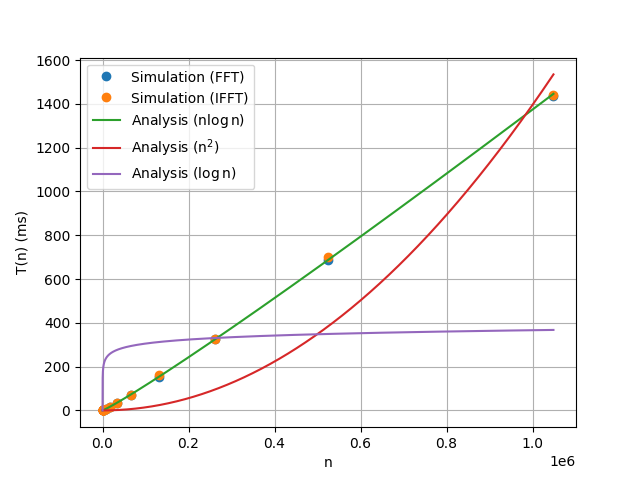
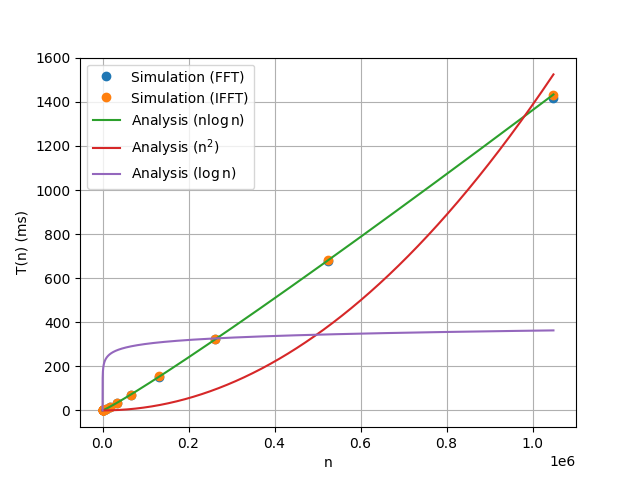
Add codes

diff --git a/filter/codes/6_7.c b/filter/codes/6_7.c
@@ -45,44 +45,118 @@ complex *convolve(complex *h, complex *x, int n) {
 	return a;
 }
 
-int main() { 
+complex *dft(complex *x, int n) { 
+    complex *X = (complex *)calloc(n, sizeof(complex));
+    for (int i = 0; i < n; i++) { 
+        for (int j = 0; j < n; j++) { 
+            X[i] += x[j]*cexp(-I*2*M_PI*i*j/n);
+        }
+    }
+    return X;
+}
+
+complex *idft(complex *x, int n) { 
+    complex *X = (complex *)calloc(n, sizeof(complex));
+    for (int i = 0; i < n; i++) { 
+        for (int j = 0; j < n; j++) { 
+            X[i] += x[j]*cexp(I*2*M_PI*i*j/n);
+        }
+        X[i] /= n;
+    }
+    return X;
+}
+
+complex **dftmtx(int n) { 
+    complex **mtx = (complex **)calloc(n, sizeof(complex *));
+    for (int i = 0; i < n; i++) mtx[i] = (complex *)calloc(n, sizeof(complex));
+    for (int i = 0; i < n; i++) { 
+        for (int j = 0; j < n; j++) { 
+            mtx[i][j] = cexp(I*2*M_PI*i*j/n);
+        }
+    }
+    return mtx;
+}
+
+complex **invmtx(int n) { 
+    complex **mtx = (complex **)calloc(n, sizeof(complex *));
+    for (int i = 0; i < n; i++) mtx[i] = (complex *)calloc(n, sizeof(complex));
+    for (int i = 0; i < n; i++) { 
+        for (int j = 0; j < n; j++) { 
+            mtx[i][j] = cexp(-I*2*M_PI*j*i/n)/(double)n;
+        }
+    }
+    return mtx;
+}
+
+int main(int argc, char *argv[]) { 
 	FILE *f1 = fopen("fft.txt", "w");
 	FILE *f2 = fopen("ifft.txt", "w");
 	FILE *f3 = fopen("conv.txt", "w");
-	for (int j = 0; j <= 20; j++) {
-		srand(time(0));
-		int n = 1 << j;
-		complex *a = (complex *)malloc(sizeof(complex)*n);
-		for (int i = 0; i < n; i++) a[i] = (double)random()/RAND_MAX;
-		// FFT Simulations
-		clock_t fft_begin = clock();
-		a = myfft(n, a);
-		clock_t fft_end = clock();
-		// End FFT simulation
-		// IFFT simulation
-		clock_t ifft_begin = clock();
-		a = myifft(n, a);
-		clock_t ifft_end = clock();
-		// End IFFT simulation
-		fprintf(f1, "%lf\n", 1000*(double)(fft_end - fft_begin)/CLOCKS_PER_SEC);
-		fprintf(f2, "%lf\n", 1000*(double)(ifft_end - ifft_begin)/CLOCKS_PER_SEC);
-		free(a);
-	}
-	for (int j = 10; j <= 1000; j+=10) {
+	FILE *f4 = fopen("dft.txt", "w");
+	FILE *f5 = fopen("dftmtx.txt", "w");
+    for (int j = 0; j <= 20; j++) {
+    	srand(time(0));
+    	int n = 1 << j;
+    	complex *a = (complex *)malloc(sizeof(complex)*n);
+    	for (int i = 0; i < n; i++) a[i] = (double)random()/RAND_MAX;
+    	// FFT Simulations
+    	clock_t fft_begin = clock();
+    	a = myfft(n, a);
+    	clock_t fft_end = clock();
+    	// End FFT simulation
+    	// IFFT simulation
+    	clock_t ifft_begin = clock();
+    	a = myifft(n, a);
+    	clock_t ifft_end = clock();
+    	// End IFFT simulation
+    	fprintf(f1, "%lf\n", 1000*(double)(fft_end - fft_begin)/CLOCKS_PER_SEC);
+    	fprintf(f2, "%lf\n", 1000*(double)(ifft_end - ifft_begin)/CLOCKS_PER_SEC);
+    	free(a);
+    }
+	for (int j = 1; j <= 1000; j++) {
 		int n = j;
 		complex *h = (complex *)malloc(sizeof(complex)*n);
 		for (int i = 0; i < n; i++) h[i] = (double)random()/RAND_MAX;
 		complex *x = (complex *)malloc(sizeof(complex)*n);
-		for (int i = 0; i < n; i++) x[i] = (double)random()/RAND_MAX;
-		// Convolution simulation
-		clock_t conv_begin = clock();
-		complex *y = convolve(h, x, n);
-		clock_t conv_end = clock();
-		// End convolution simulation
+		complex *dx = (complex *)malloc(sizeof(complex)*n);
+		complex *ix = (complex *)malloc(sizeof(complex)*n);
+		for (int i = 0; i < n; i++) x[i] = (double)random()/RAND_MAX, dx[i] = 0.0, ix[i] = 0.0;
+	    // Convolution simulation
+	    clock_t conv_begin = clock();
+	    complex *y = convolve(h, x, n);
+	    clock_t conv_end = clock();
+	    // End convolution simulation
 		fprintf(f3, "%lf\n", 1000*(double)(conv_end - conv_begin)/CLOCKS_PER_SEC);
-		free(x); free(h);
+        // DFT-IDFT simulation
+        clock_t dft_begin = clock();
+        complex *X = dft(x, n);
+        complex *H = dft(h, n);
+        complex *Y = (complex *)malloc(sizeof(complex)*n);
+        for (int i = 0; i < n; i++) Y[i] = H[i]*X[i];
+        y = idft(Y, n);
+        clock_t dft_end = clock();
+        // End DFT-IDFT simulation
+		fprintf(f4, "%lf\n", 1000*(double)(dft_end - dft_begin)/CLOCKS_PER_SEC);
+        // DFT Matrix simulation
+        clock_t dftmtx_begin = clock();
+        complex **dm = dftmtx(j);
+        complex **idm = invmtx(j);
+        for (int i = 0; i < n; i++) { 
+            for (int j = 0; j < n; j++) { 
+               dx[i] += dm[i][j]*x[j];
+            }
+        }
+        for (int i = 0; i < n; i++) { 
+            for (int j = 0; j < n; j++) { 
+               ix[i] += idm[i][j]*dx[j];
+            }
+        }
+        clock_t dftmtx_end = clock();
+        // End DFT Matrix simulation
+		fprintf(f5, "%lf\n", 1000*(double)(dftmtx_end - dftmtx_begin)/CLOCKS_PER_SEC);
+		free(x); free(h); free(y); free(dm); free(idm);
 	}
-	fclose(f1); fclose(f2); fclose(f3);
+	fclose(f1); fclose(f2); fclose(f3); fclose(f4); fclose(f5);
 	// FFT-IFFT Tests
 	int N = 8;
 	complex* test = (complex *)malloc(sizeof(complex)*N);

diff --git a/filter/codes/7_14.py b/filter/codes/7_14.py
@@ -1,53 +1,67 @@
 import numpy as np
-import time
+import scipy
+from scipy import fft
+from itertools import chain
+import timeit
 from scipy.optimize import curve_fit
 from matplotlib import pyplot as plt
 
 def nlgn(n, a): return a*n*np.log2(n)
-def nsq(n, a): return a*n*n
-def ncb(n, a): return a*(n**3)
-def nsqlgn(n, a): return a*n*n*np.log2(n)
+def nsq(n, a): return a*(n**2)
+def lgn(n, a): return a*np.log2(n);
+
+def pmtx(n):
+    col = range(n)
+    row = list(chain(range(0, n, 2), range(1, n, 2)))
+    data = np.ones(n)
+    return scipy.sparse.csr_matrix((data, (row, col)), shape = (n,n))
+
+def id_diag(n):
+    w = np.exp(-1j*2*np.pi/n)**(np.arange(n//2))
+    Id = scipy.sparse.identity(n//2)
+    D = scipy.sparse.dia_matrix((w, [0]), shape=(n//2,n//2))
+    return scipy.sparse.bmat([[Id, D], [Id, -D]])
+
 
 def fftmtx(n):
-    if (n == 1): return np.array([[1]])
-    w = np.exp(-1j*2*np.pi*np.arange(n>>1)/n)
-    G = fftmtx(n>>1)
-    dg = np.diag(w)@G
-    F_l = np.concatenate((G, G), axis=0)
-    F_r = np.concatenate((dg, -dg), axis=0)
-    F = np.concatenate((F_l, F_r), axis=1)
-    Q = np.arange(n)
-    F[:,np.concatenate((Q[::2], Q[1::2]))] = F[:,Q]
-    return F
+    if (n == 1): return scipy.sparse.csr_matrix(([1]*1, ([0], [0])), shape=(1,1))
+    P = pmtx(n)
+    G = fftmtx(n//2)
+    M = scipy.sparse.bmat([[G, None], [None, G]])
+    L = id_diag(n)
+    return L.dot(M).dot(P)
 
-tl = []
-N = 10
-for i in range(10):
-    st = time.time()
-    X = fftmtx(1<<i)
-    tl.append(time.time() - st)
+t1 = []
+N = 11
+x = 1<<np.arange(N)
+X = np.arange(2**(N-1)+1)
+x_t = np.linspace(1,1001,1000)
+eps = 1e-6
+for i in range(0, N, 1):
+    v = np.random.random(size=1<<i)
+    st = timeit.default_timer()
+    fftmtx(1<<i).dot(v)
+    en = timeit.default_timer()
+    t1.append(en - st)
 
-plt.plot(np.arange(10), tl, '.')
-x = np.linspace(1, 11, 10)
-popt, pcov = curve_fit(nlgn, x, tl)
-p1 = nlgn(x, *popt)
-plt.plot(np.insert(x, 0, 0), np.insert(p1, 0, 0))
-popt, pcov = curve_fit(nsq, x, tl)
-p1 = nsq(x, *popt)
-plt.plot(np.insert(x, 0, 0), np.insert(p1, 0, 0))
-popt, pcov = curve_fit(nsqlgn, x, tl)
-p1 = nsqlgn(x, *popt)
-plt.plot(np.insert(x, 0, 0), np.insert(p1, 0, 0))
-popt, pcov = curve_fit(ncb, x, tl)
-p1 = ncb(x, *popt)
-plt.plot(np.insert(x, 0, 0), np.insert(p1, 0, 0))
+t2 = np.loadtxt('fftw.txt')
+t3 = np.loadtxt('conv.txt')
+t4 = np.loadtxt('dft.txt')
+t5 = np.loadtxt('dftmtx.txt')
+plt.plot(x, t1, '.')
+popt, pcov = curve_fit(nsq, x, t1)
+p1 = nsq(X, *popt)
+plt.plot(X, p1, '.')
+plt.plot(x_t, t2, '.')
+popt, pcov = curve_fit(nlgn, x_t, t2)
+p1 = nlgn(X, *popt)
+plt.plot(X, p1, '.')
+plt.plot(x_t, t3, '.')
+popt, pcov = curve_fit(nsq, x_t, t3)
+p1 = nsq(X, *popt)
+plt.plot(X, p1, '.')
+plt.plot(x, t4, '.')
+popt, pcov = curve_fit(nsq, x_t, t4)
+p1 = nsq(X, *popt)
+plt.plot(X, p1, '.')
 plt.show()
-
-'''
-This is to truncate very small values to zero
-Xr = np.real(X)
-Xr[abs(Xr) < 1e-6] = 0
-Xi = np.imag(X)
-Xi[abs(Xi) < 1e-6] = 0
-X = Xr + 1j*Xi
-'''

diff --git a/filter/codes/7_14.c b/filter/codes/7_14.c
@@ -1,0 +1,35 @@
+#include <stdio.h>
+#include <math.h>
+#include <time.h>
+#include <stdlib.h>
+#include "fftw3.h"
+
+int main()
+{
+    srand(time(NULL));
+    clock_t fb, fe;
+    FILE *fp1 = fopen("fftw.txt", "w");
+    int N;
+    for (N=1;N<=1000;N++)
+    {
+    fftwl_complex in[N], out[N];
+    fftwl_plan p1, q;
+
+    for (int i = 0; i < N; i++) {
+        in[i][0] = rand()/RAND_MAX;
+        in[i][1] = rand()/RAND_MAX;
+    }
+
+    p1 = fftwl_plan_dft_1d(N, in, out, FFTW_FORWARD, FFTW_ESTIMATE);
+    q = fftwl_plan_dft_1d(N, in, out, FFTW_BACKWARD, FFTW_ESTIMATE);
+    fb = clock();
+    fftwl_execute(p1);
+    fftwl_execute(q);
+    fe = clock();
+    fftwl_destroy_plan(p1);
+    fftwl_destroy_plan(q);
+    fprintf(fp1, "%lf\n", 1000*(double)(fe - fb)/CLOCKS_PER_SEC);
+    }
+    fclose(fp1);
+    return 0;
+}

diff --git a/filter/codes/7_15.c b/filter/codes/7_15.c
@@ -1,0 +1,35 @@
+#include <stdio.h>
+#include <math.h>
+#include <time.h>
+#include <stdlib.h>
+#include "fftw3.h"
+
+int main()
+{
+    srand(time(NULL));
+    clock_t fb, fe;
+    FILE *fp1 = fopen("fftw.txt", "w");
+    int N;
+    for (N=1;N<=1000;N++)
+    {
+    fftwl_complex in[N], out[N];
+    fftwl_plan p1, q;
+
+    for (int i = 0; i < N; i++) {
+        in[i][0] = rand()/RAND_MAX;
+        in[i][1] = rand()/RAND_MAX;
+    }
+
+    p1 = fftwl_plan_dft_1d(N, in, out, FFTW_FORWARD, FFTW_ESTIMATE);
+    q = fftwl_plan_dft_1d(N, in, out, FFTW_BACKWARD, FFTW_ESTIMATE);
+    fb = clock();
+    fftwl_execute(p1);
+    fftwl_execute(q);
+    fe = clock();
+    fftwl_destroy_plan(p1);
+    fftwl_destroy_plan(q);
+    fprintf(fp1, "%lf\n", 1000*(double)(fe - fb)/CLOCKS_PER_SEC);
+    }
+    fclose(fp1);
+    return 0;
+}
